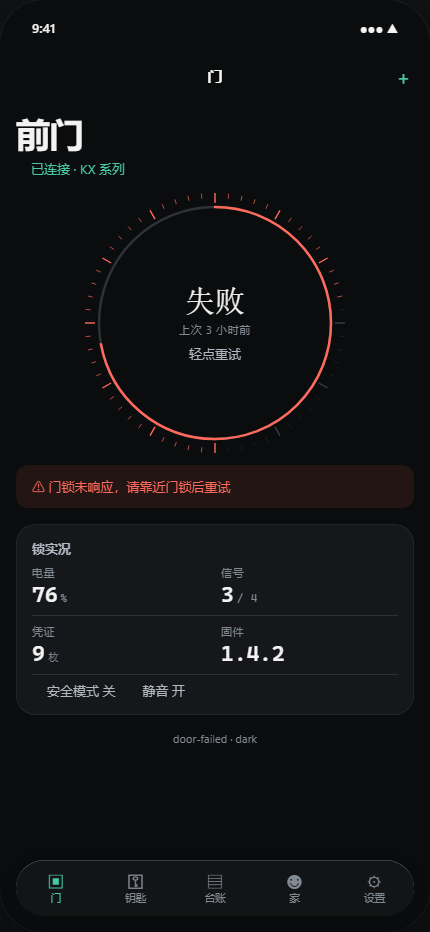
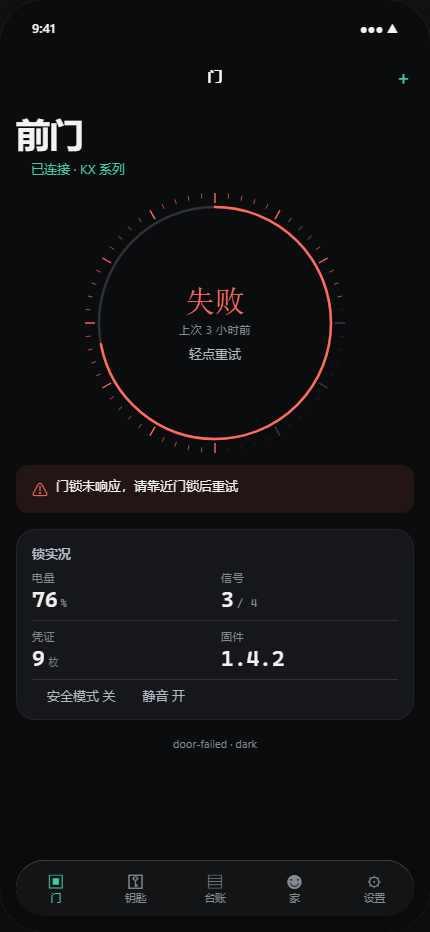
polish(ios27): 失败态的信息收敛
失败时三处都在喊同一件事（红弧 / 黑色"失败" / 红横幅），眼睛要先读到弧才明白出事了。
- 中心词跟着变红：最重要的信息放在最先被读到的地方
- 横幅改成"原因 + 下一步"，不再重复"失败"这个词（已在刻度盘中心）
- 横幅底色 10% critical + 正文用墨色（红字压红底读起来更费劲）

diff --git a/ios27/App/Features/Door/DoorScreen.swift b/ios27/App/Features/Door/DoorScreen.swift
@@ -94,17 +94,23 @@ struct DoorScreen: View {
             .animation(reduceMotion ? nil : T.M.settle, value: app.dialPhase == .opened)
             .padding(.top, T.S.s)
 
+            // 失败横幅只说**原因与下一步**，不再重复"失败"这个词 ——
+            // 那个词已经在刻度盘中心（并且变红了）。同一件事说三遍是噪音，不是强调。
             if case .failed(let reason) = app.dialPhase {
-                HStack(spacing: T.S.s) {
+                HStack(alignment: .top, spacing: T.S.s) {
                     Image(systemName: "exclamationmark.triangle.fill")
-                        .accessibilityHidden(true)   // 装饰性图标：语义由相邻文字承载
+                        .accessibilityHidden(true)
                         .font(T.F.icon(T.Icon.s))
                         .foregroundStyle(State.critical)
                     Text(reason)
                         .font(T.F.caption)
-                        .foregroundStyle(State.critical)
+                        .foregroundStyle(Ink.ink)
+                        .fixedSize(horizontal: false, vertical: true)
                     Spacer(minLength: 0)
                 }
+                .padding(.horizontal, T.S.l)
+                .padding(.vertical, T.S.m)
+                .background(State.critical.opacity(0.10), in: .rect(cornerRadius: T.R.control))
                 .padding(.horizontal, T.S.gutter)
                 .transition(.opacity.combined(with: .move(edge: .top)))
             }

diff --git a/ios27/DesignLab/primitives.js b/ios27/DesignLab/primitives.js
@@ -51,7 +51,7 @@ const dial = (word, footnote, hint, progress, failed, size) => {
     '<svg width="' + S + '" height="' + S + '" viewBox="0 0 ' + S + ' ' + S + '" aria-hidden="true">' + ticks +
     (progress > 0 ? '<circle cx="' + R + '" cy="' + R + '" r="' + arcR + '" fill="none" stroke="var(--hairline)" stroke-width="2.5" stroke-linecap="round"/>' : '') +
     '<circle cx="' + R + '" cy="' + R + '" r="' + arcR + '" fill="none" stroke="' + (failed ? 'var(--critical)' : 'var(--base)') + '" stroke-width="2.5" stroke-linecap="round" stroke-dasharray="' + circ + '" stroke-dashoffset="' + (circ * (1 - Math.max(progress, 0.0001))) + '" transform="rotate(-90 ' + R + ' ' + R + ')"/></svg>' +
-    '<div class="hub"><b>' + H(word) + '</b><em>' + H(footnote) + '</em><p>' + H(hint) + '</p></div></div>';
+    '<div class="hub"><b style="' + (failed ? 'color:var(--critical)' : '') + '">' + H(word) + '</b><em>' + H(footnote) + '</em><p>' + H(hint) + '</p></div></div>';
 };
 
 // 四步梯：只在真序列上用（配网 / 建档向导 / 开锁链）。这是契约 §11 唯一允许 01/02/03 的地方。

diff --git a/ios27/DesignLab/screens.js b/ios27/DesignLab/screens.js
@@ -82,7 +82,7 @@ const SCREENS = [
     nav: '门',
     tab: 0,
     body: doorHeader + '<div class="gap"></div>' + P.dial('失败', '上次 3 小时前', '轻点重试', 0.72, true, 260) +
-      '<div class="gap-m"></div><div class="banner">&#9888; 门锁未响应，请靠近门锁后重试</div><div class="gap"></div>' + doorReadings,
+      '<div class="gap-m"></div><div style="display:flex;gap:var(--sp-s);align-items:flex-start;margin:0 var(--sp-gutter);padding:var(--sp-m) var(--sp-l);border-radius:var(--r-control);background:color-mix(in srgb,var(--critical) 10%,transparent)"><span style="color:var(--critical)">&#9888;</span><span style="color:var(--ink);font-size:var(--f-caption)">门锁未响应，请靠近门锁后重试</span></div><div class="gap"></div>' + doorReadings,
   },
   {
     id: 'door-empty',

diff --git a/ios27/App/Design/Components/Dial.swift b/ios27/App/Design/Components/Dial.swift
@@ -143,11 +143,14 @@ struct Dial: View {
     }
 
     // MARK: 中心读数
+    //
+    // 失败时中心词跟着变红：三处（红弧 / 中心词 / 横幅）如果只有弧在变，
+    // 眼睛要先读到弧才明白"出事了"，而词还是黑的 —— 那是把最重要的信息放最后。
     private var hub: some View {
         VStack(spacing: T.S.xs) {
             Text(phase.word)
                 .font(T.F.reading(30, weight: .medium))
-                .foregroundStyle(enabled ? Ink.ink : Ink.inkFaint)
+                .foregroundStyle(phase.isFailed ? State.critical : (enabled ? Ink.ink : Ink.inkFaint))
                 .contentTransition(reduceMotion ? .identity : .numericText())
                 .animation(reduceMotion ? nil : T.M.snap, value: phase.word)
             Text(footnote)
